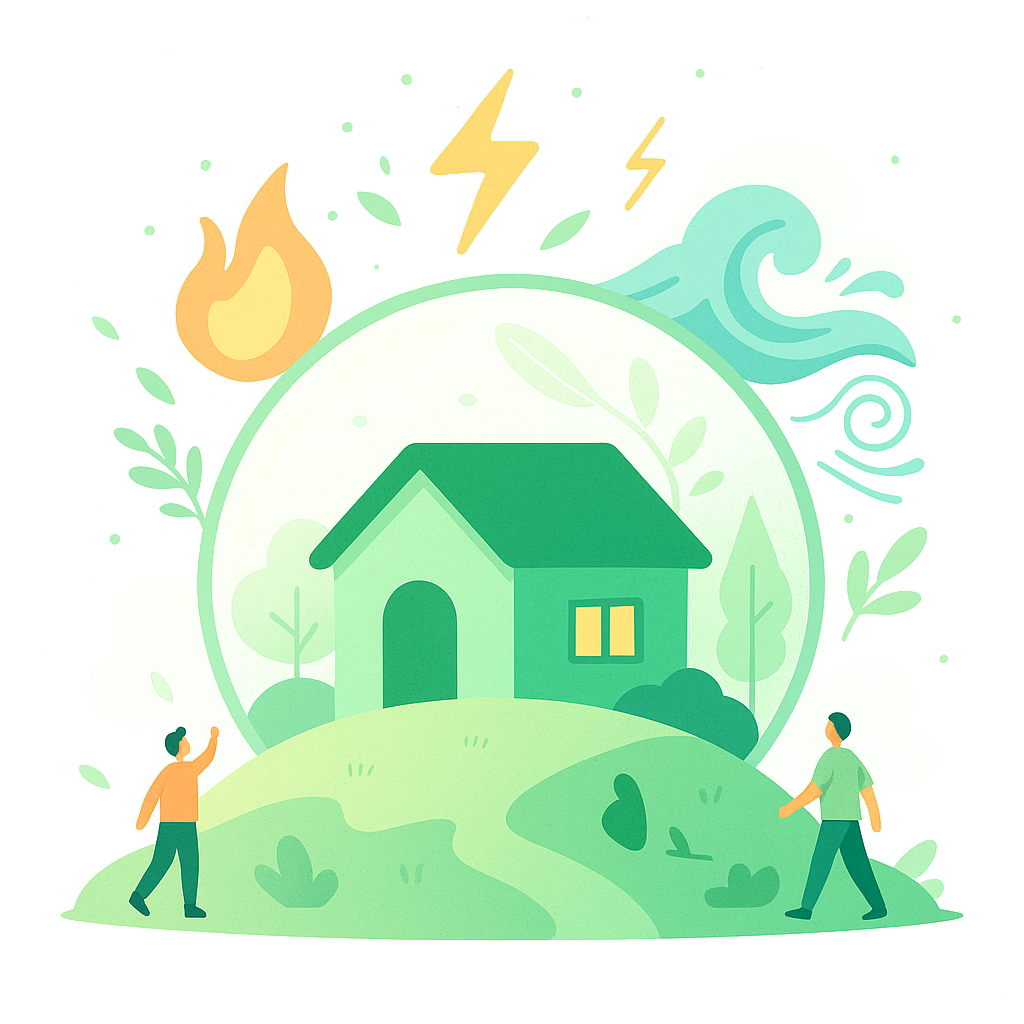
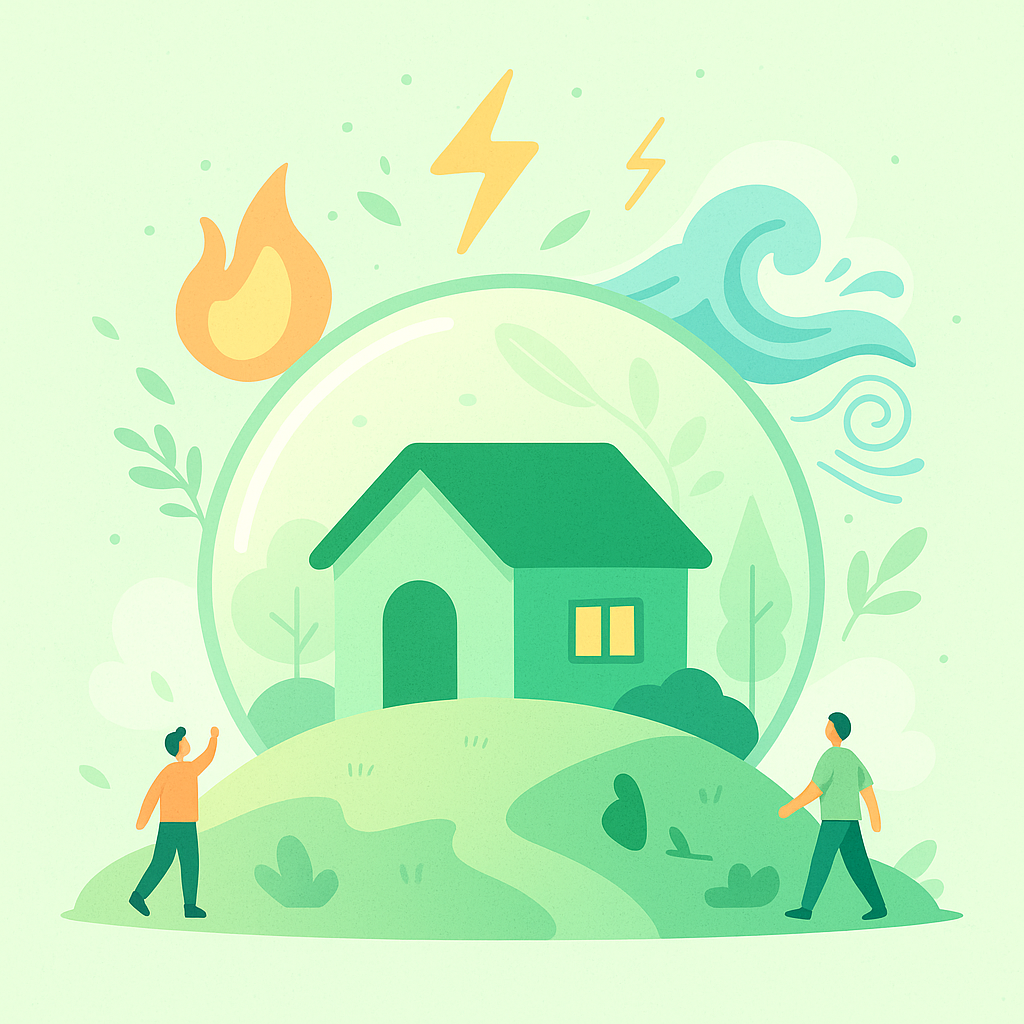
Restored to '993862750844c6b47bcc921c0164fa1127602c33'
Replit-Restored-To: 993862750844c6b47bcc921c0164fa1127602c33

diff --git a/client/src/pages/landing.tsx b/client/src/pages/landing.tsx
@@ -133,7 +133,7 @@ export default function Landing() {
               {/* Central Home Illustration */}
               <div className="relative mx-auto w-96 h-96 flex items-center justify-center">
                 <img 
-                  src="/assets/disaster-dodger-new-illustration.png" 
+                  src="/assets/disaster-dodger-illustration.png" 
                   alt="Protected home with natural disaster elements" 
                   className="w-full h-full object-contain"
                 />
